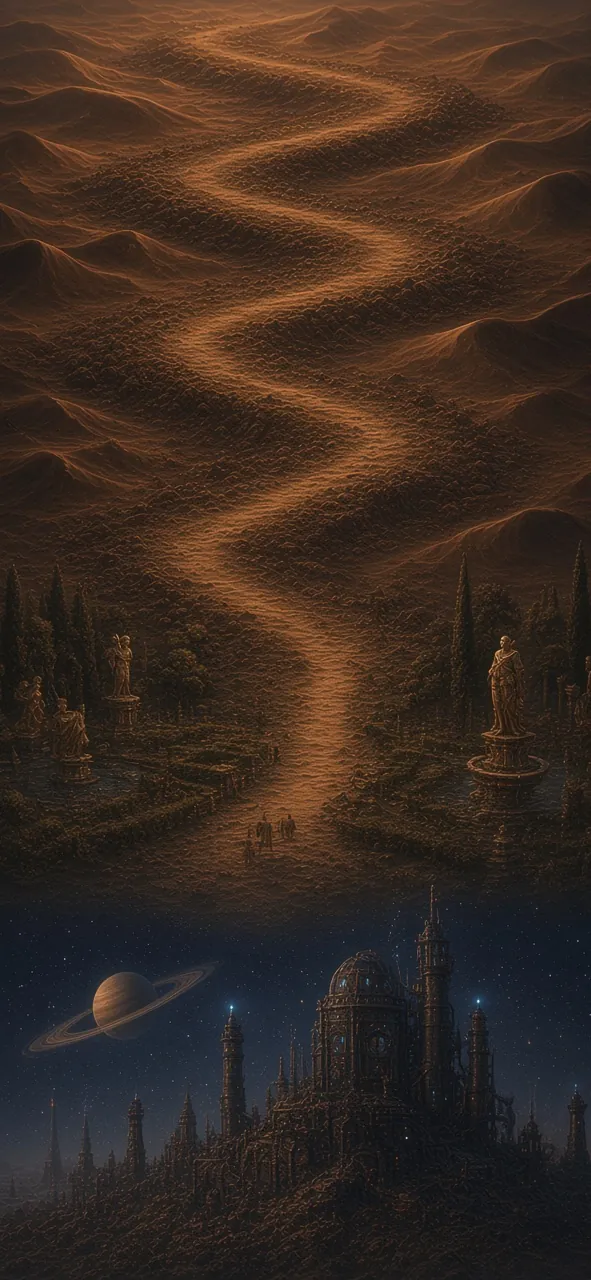
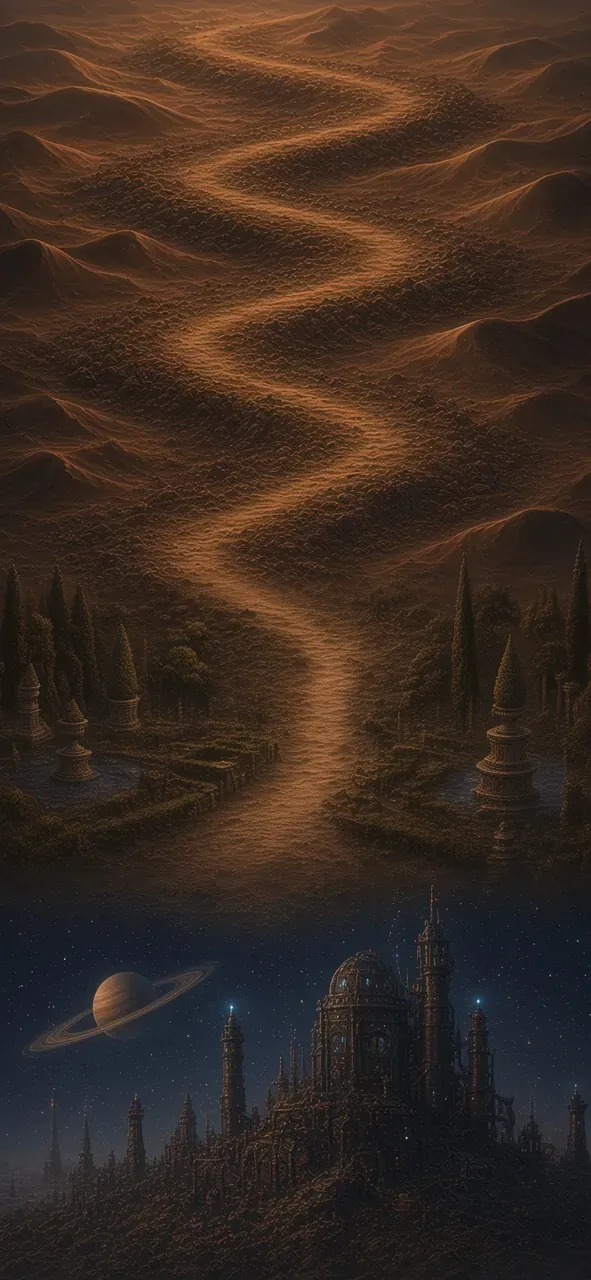
Wanderweg polish: start on the painted path, tag kept on screen, end spot past WM19, no people in sections 3 and 4

Changed region(s): [[0.1827, 0.4688, 0.731, 0.6875], [0.7614, 0.5, 0.9137, 0.6562], [0.0305, 0.5312, 0.1827, 0.625]]

diff --git a/lib/features/wanderweg/wanderweg_screen.dart b/lib/features/wanderweg/wanderweg_screen.dart
@@ -66,8 +66,8 @@ class _WanderwegScreenState extends ConsumerState<WanderwegScreen> {
           final bottomOverlay = 214 + insets.bottom;
           final geo = TrailGeometry(
             width: w,
-            topPad: topOverlay - 40,
-            bottomPad: bottomOverlay - 60,
+            topPad: topOverlay + 20,
+            bottomPad: 40 + insets.bottom,
           );
           final progress = game.wanderweg;
           final s = geo.companionS(progress, game.totals.distanceM);
@@ -193,6 +193,13 @@ class _TrailContent extends StatelessWidget {
           height: w * 0.18,
           child: _Companion(game: game),
         ),
+        Positioned(
+          left: 0,
+          right: 0,
+          top: at.dy + w * 0.01 + 4,
+          height: 22,
+          child: _CompanionTag(game: game, centerX: at.dx),
+        ),
       ],
     );
   }
@@ -301,7 +308,7 @@ class _EmberTrail extends CustomPainter {
       ..color = TrailColors.ember.withValues(alpha: 0.55)
       ..maskFilter = const MaskFilter.blur(BlurStyle.normal, 4);
     final core = Paint()..color = TrailColors.emberCore;
-    for (var s = step * 0.5; s < walkedS - step * 0.6; s += step) {
+    for (var s = geo.startS + step * 0.5; s < walkedS - step * 0.6; s += step) {
       final p = geo.at(s);
       canvas.drawCircle(p, 4.2, glow);
       canvas.drawCircle(p, 2.1, core);
@@ -555,18 +562,6 @@ class _Companion extends StatelessWidget {
 
   @override
   Widget build(BuildContext context) {
-    final l = AppLocalizations.of(context);
-    final progress = game.wanderweg;
-    final next = progress.next;
-    final String tag;
-    if (next == null) {
-      tag = l.wwYou;
-    } else {
-      final left = next.km - game.totals.distanceM / 1000;
-      tag = left > 0
-          ? '${l.wwYou} · ${l.wwYouLeft(kmText(context, math.max(left, 0.1)))}'
-          : '${l.wwYou} · ${l.wwYouTask}';
-    }
     return LayoutBuilder(
       builder: (context, box) {
         final s = box.maxWidth;
@@ -595,37 +590,81 @@ class _Companion extends StatelessWidget {
                 alignment: Alignment.bottomCenter,
               ),
             ),
-            Positioned(
-              bottom: -22,
-              child: DecoratedBox(
-                decoration: BoxDecoration(
-                  color: const Color(0xE61A1D22),
-                  borderRadius: BorderRadius.circular(10),
-                  border: Border.all(color: TrailColors.ember),
-                ),
-                child: Padding(
-                  padding: const EdgeInsets.symmetric(
-                    horizontal: 7,
-                    vertical: 2,
-                  ),
-                  child: Text(
-                    tag,
-                    maxLines: 1,
-                    softWrap: false,
-                    style: const TextStyle(
-                      color: TrailColors.bone,
-                      fontSize: 10.5,
-                      fontWeight: FontWeight.w600,
-                    ),
-                  ),
-                ),
-              ),
-            ),
           ],
         );
       },
     );
   }
+}
+
+/// The "you · X km to go" tag under the companion, centred on it but kept
+/// inside the screen at both edges.
+class _CompanionTag extends StatelessWidget {
+  const _CompanionTag({required this.game, required this.centerX});
+
+  final GameData game;
+  final double centerX;
+
+  @override
+  Widget build(BuildContext context) {
+    final l = AppLocalizations.of(context);
+    final progress = game.wanderweg;
+    final next = progress.next;
+    final String tag;
+    if (next == null) {
+      tag = l.wwYou;
+    } else {
+      final left = next.km - game.totals.distanceM / 1000;
+      tag = left > 0
+          ? '${l.wwYou} · ${l.wwYouLeft(kmText(context, math.max(left, 0.1)))}'
+          : '${l.wwYou} · ${l.wwYouTask}';
+    }
+    return CustomSingleChildLayout(
+      delegate: _CenterClamp(centerX),
+      child: DecoratedBox(
+        decoration: BoxDecoration(
+          color: const Color(0xE61A1D22),
+          borderRadius: BorderRadius.circular(10),
+          border: Border.all(color: TrailColors.ember),
+        ),
+        child: Padding(
+          padding: const EdgeInsets.symmetric(horizontal: 7, vertical: 2),
+          child: Text(
+            tag,
+            maxLines: 1,
+            softWrap: false,
+            style: const TextStyle(
+              color: TrailColors.bone,
+              fontSize: 10.5,
+              fontWeight: FontWeight.w600,
+            ),
+          ),
+        ),
+      ),
+    );
+  }
+}
+
+class _CenterClamp extends SingleChildLayoutDelegate {
+  _CenterClamp(this.centerX);
+
+  final double centerX;
+  static const margin = 6.0;
+
+  @override
+  BoxConstraints getConstraintsForChild(BoxConstraints constraints) =>
+      constraints.loosen().deflate(
+        const EdgeInsets.symmetric(horizontal: margin),
+      );
+
+  @override
+  Offset getPositionForChild(Size size, Size childSize) {
+    final maxX = math.max(margin, size.width - childSize.width - margin);
+    return Offset((centerX - childSize.width / 2).clamp(margin, maxX), 0);
+  }
+
+  @override
+  bool shouldRelayout(_CenterClamp old) => old.centerX != centerX;
 }
 
 class _TopBar extends StatelessWidget {

diff --git a/lib/features/wanderweg/trail_layout.dart b/lib/features/wanderweg/trail_layout.dart
@@ -41,6 +41,14 @@ class TrailSection {
   final List<TrailSign> signs;
 }
 
+/// Where a new player starts: on the painted path inside section 0, well
+/// above the fade into the task panel.
+const Offset trailStart = Offset(616, 1450);
+
+/// Where the companion rests once all waymarks are reached: further up the
+/// path in the last section, clear of the last waymark and its label.
+const Offset trailEnd = Offset(480, 120);
+
 /// Section 0 at the bottom (Medieval → Jungle) up to section 3 (Robot,
 /// Space, Rococo, Candy).
 const List<TrailSection> trailSections = [
@@ -215,7 +223,7 @@ const List<TrailSection> trailSections = [
     },
     signs: [
       TrailSign([World.space, World.robot], Offset(24, 1560), 15),
-      TrailSign([World.rococo], Offset(756, 1130), 19, right: true),
+      TrailSign([World.rococo], Offset(756, 1040), 19, right: true),
       TrailSign([World.candy], Offset(756, 160), 19, right: true),
     ],
   ),
@@ -247,6 +255,12 @@ class TrailGeometry {
   }
 
   final double width;
+
+  /// Arc length of [trailStart]; nothing is walked before it.
+  late final double startS = project(map(0, trailStart));
+
+  /// Arc length of [trailEnd].
+  late final double endS = project(map(trailSections.length - 1, trailEnd));
   final double topPad;
   final double bottomPad;
   final List<Offset> _points = [];
@@ -318,17 +332,17 @@ class TrailGeometry {
   double companionS(WanderwegProgress progress, double distanceM) {
     final reached = progress.reached;
     if (progress.complete) {
-      return math.min(waymarkS(waymarks.length) + width * 0.12, length);
+      return endS;
     }
     final next = waymarks[reached];
     final fromKm = reached == 0 ? 0.0 : waymarks[reached - 1].km;
-    final fromS = reached == 0 ? 0.0 : waymarkS(reached);
+    final fromS = reached == 0 ? startS : waymarkS(reached);
     final toS = waymarkS(next.number);
     final f = ((distanceM / 1000 - fromKm) / (next.km - fromKm)).clamp(
       0.0,
       1.0,
     );
-    final start = reached == 0 ? 0.04 : 0.1;
+    final start = reached == 0 ? 0.0 : 0.1;
     return fromS + (toS - fromS) * (start + (0.88 - start) * f);
   }
 }

diff --git a/test/trail_layout_test.dart b/test/trail_layout_test.dart
@@ -1,0 +1,46 @@
+import 'package:flutter_test/flutter_test.dart';
+import 'package:treadplay/domain/wanderweg.dart';
+import 'package:treadplay/features/wanderweg/trail_layout.dart';
+
+WanderwegProgress _reached(int n) =>
+    WanderwegProgress(reachedAt: List.filled(n, DateTime(2026, 10, 1)));
+
+void main() {
+  for (final width in [320.0, 390.0, 430.0]) {
+    group('width $width', () {
+      final geo = TrailGeometry(width: width, topPad: 170, bottomPad: 40);
+      final sectionBottom = geo.sectionTop(0) + geo.sectionHeight;
+
+      test('a fresh player stands on the painted path in section 1', () {
+        final s = geo.companionS(const WanderwegProgress(), 0);
+        expect(s, closeTo(geo.startS, 0.001));
+        final p = geo.at(s);
+        expect(p.dy, lessThan(sectionBottom - width * 0.25));
+        expect(p.dy, greaterThan(geo.sectionTop(0)));
+      });
+
+      test('the companion stays on screen for every km and at the end', () {
+        for (var n = 0; n <= waymarks.length; n++) {
+          final from = n == 0 ? 0.0 : waymarks[n - 1].km;
+          final to = n == waymarks.length ? from + 20 : waymarks[n].km;
+          for (var f = 0.0; f <= 1.0; f += 0.25) {
+            final km = from + (to - from) * f;
+            final s = geo.companionS(_reached(n), km * 1000);
+            final p = geo.at(s);
+            expect(p.dx, inInclusiveRange(width * 0.12, width * 0.88));
+            // Head below the 150 px top overlay, feet above the art's end.
+            expect(p.dy - width * 0.17, greaterThanOrEqualTo(150));
+            expect(p.dy, lessThanOrEqualTo(sectionBottom));
+          }
+        }
+      });
+
+      test('at the end the companion is past the last waymark', () {
+        final s = geo.companionS(_reached(waymarks.length), 140000);
+        expect(s, greaterThan(geo.waymarkS(waymarks.length)));
+        final foot = geo.cairnFoot(waymarks.length);
+        expect(geo.at(s).dy, lessThan(foot.dy - width * 0.2));
+      });
+    });
+  }
+}
